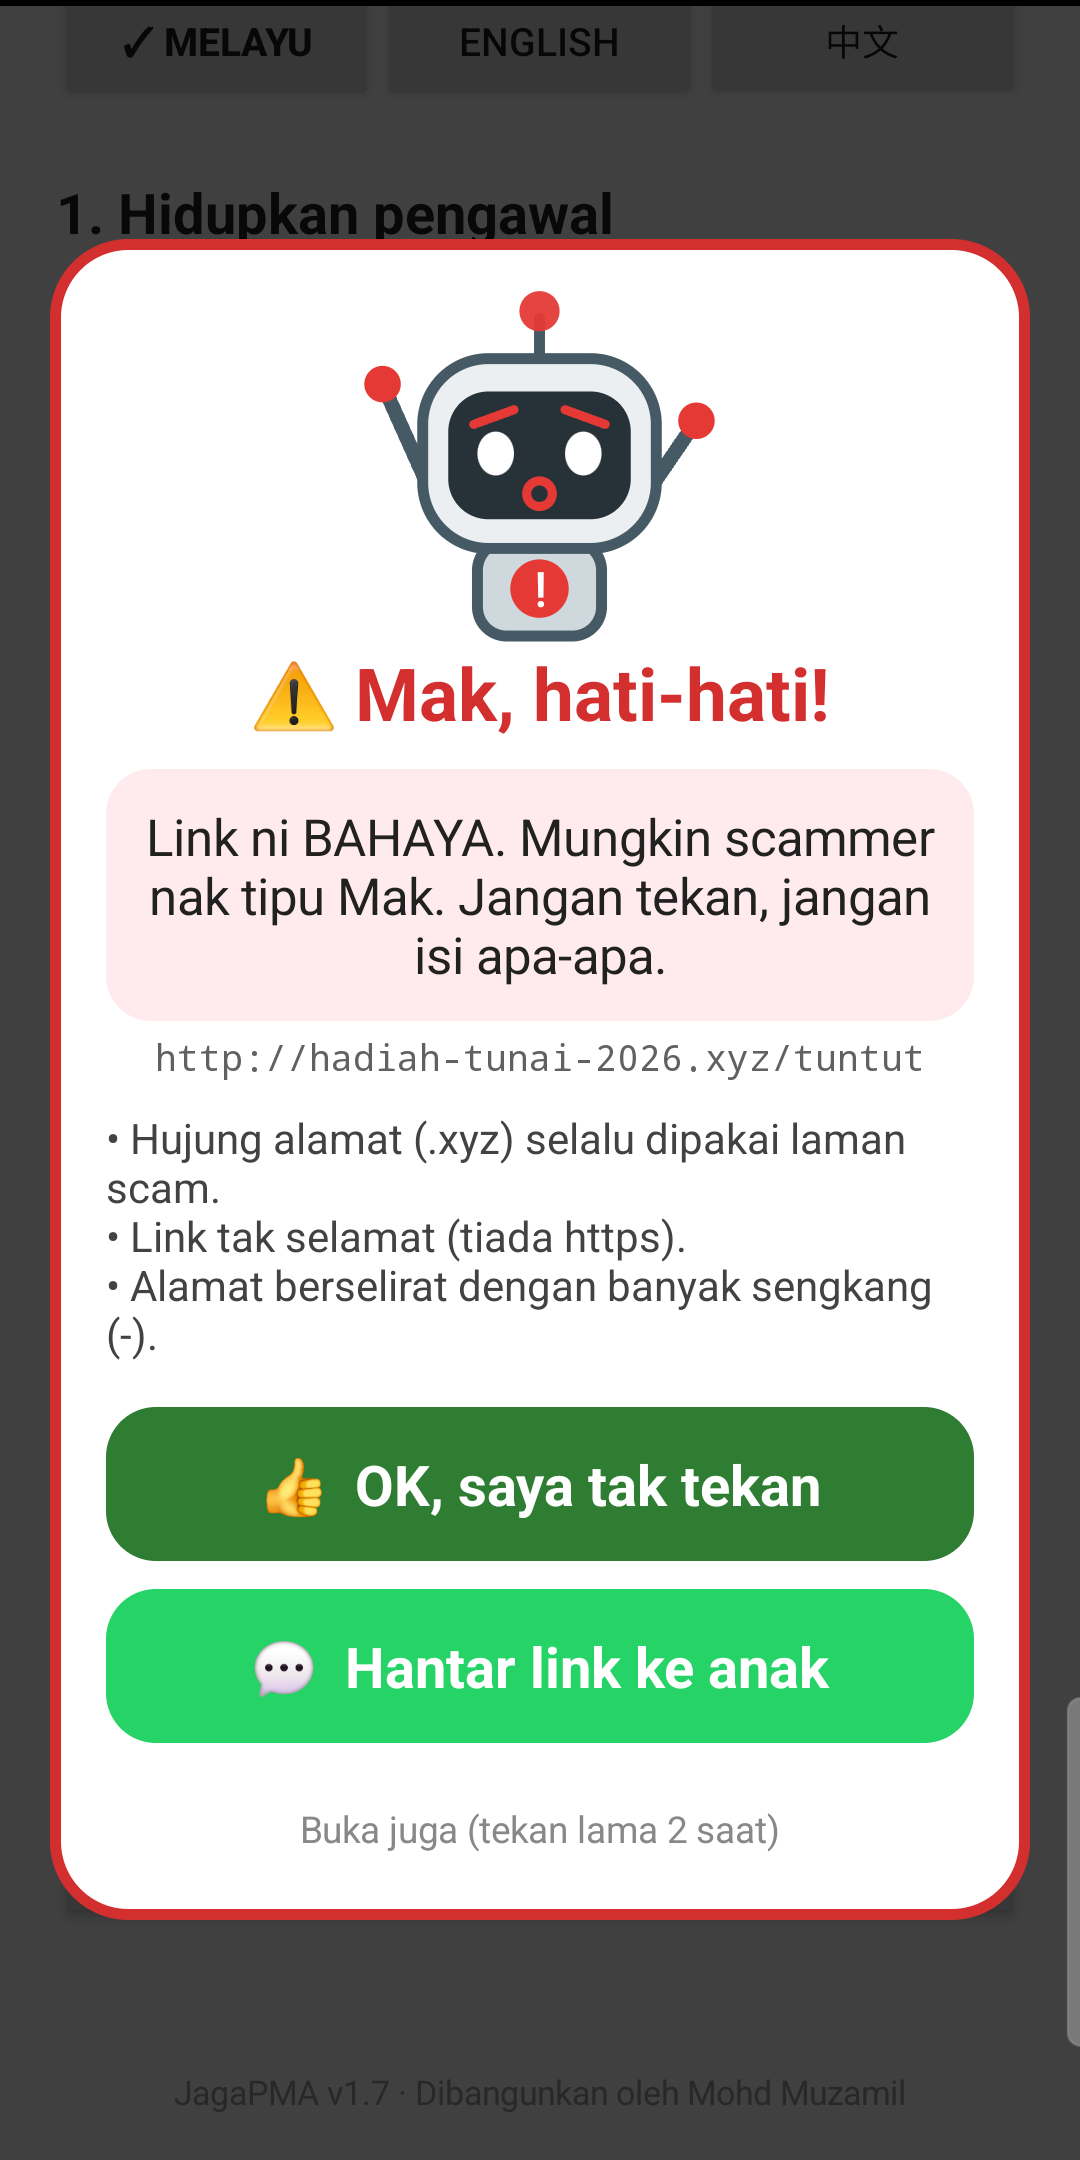
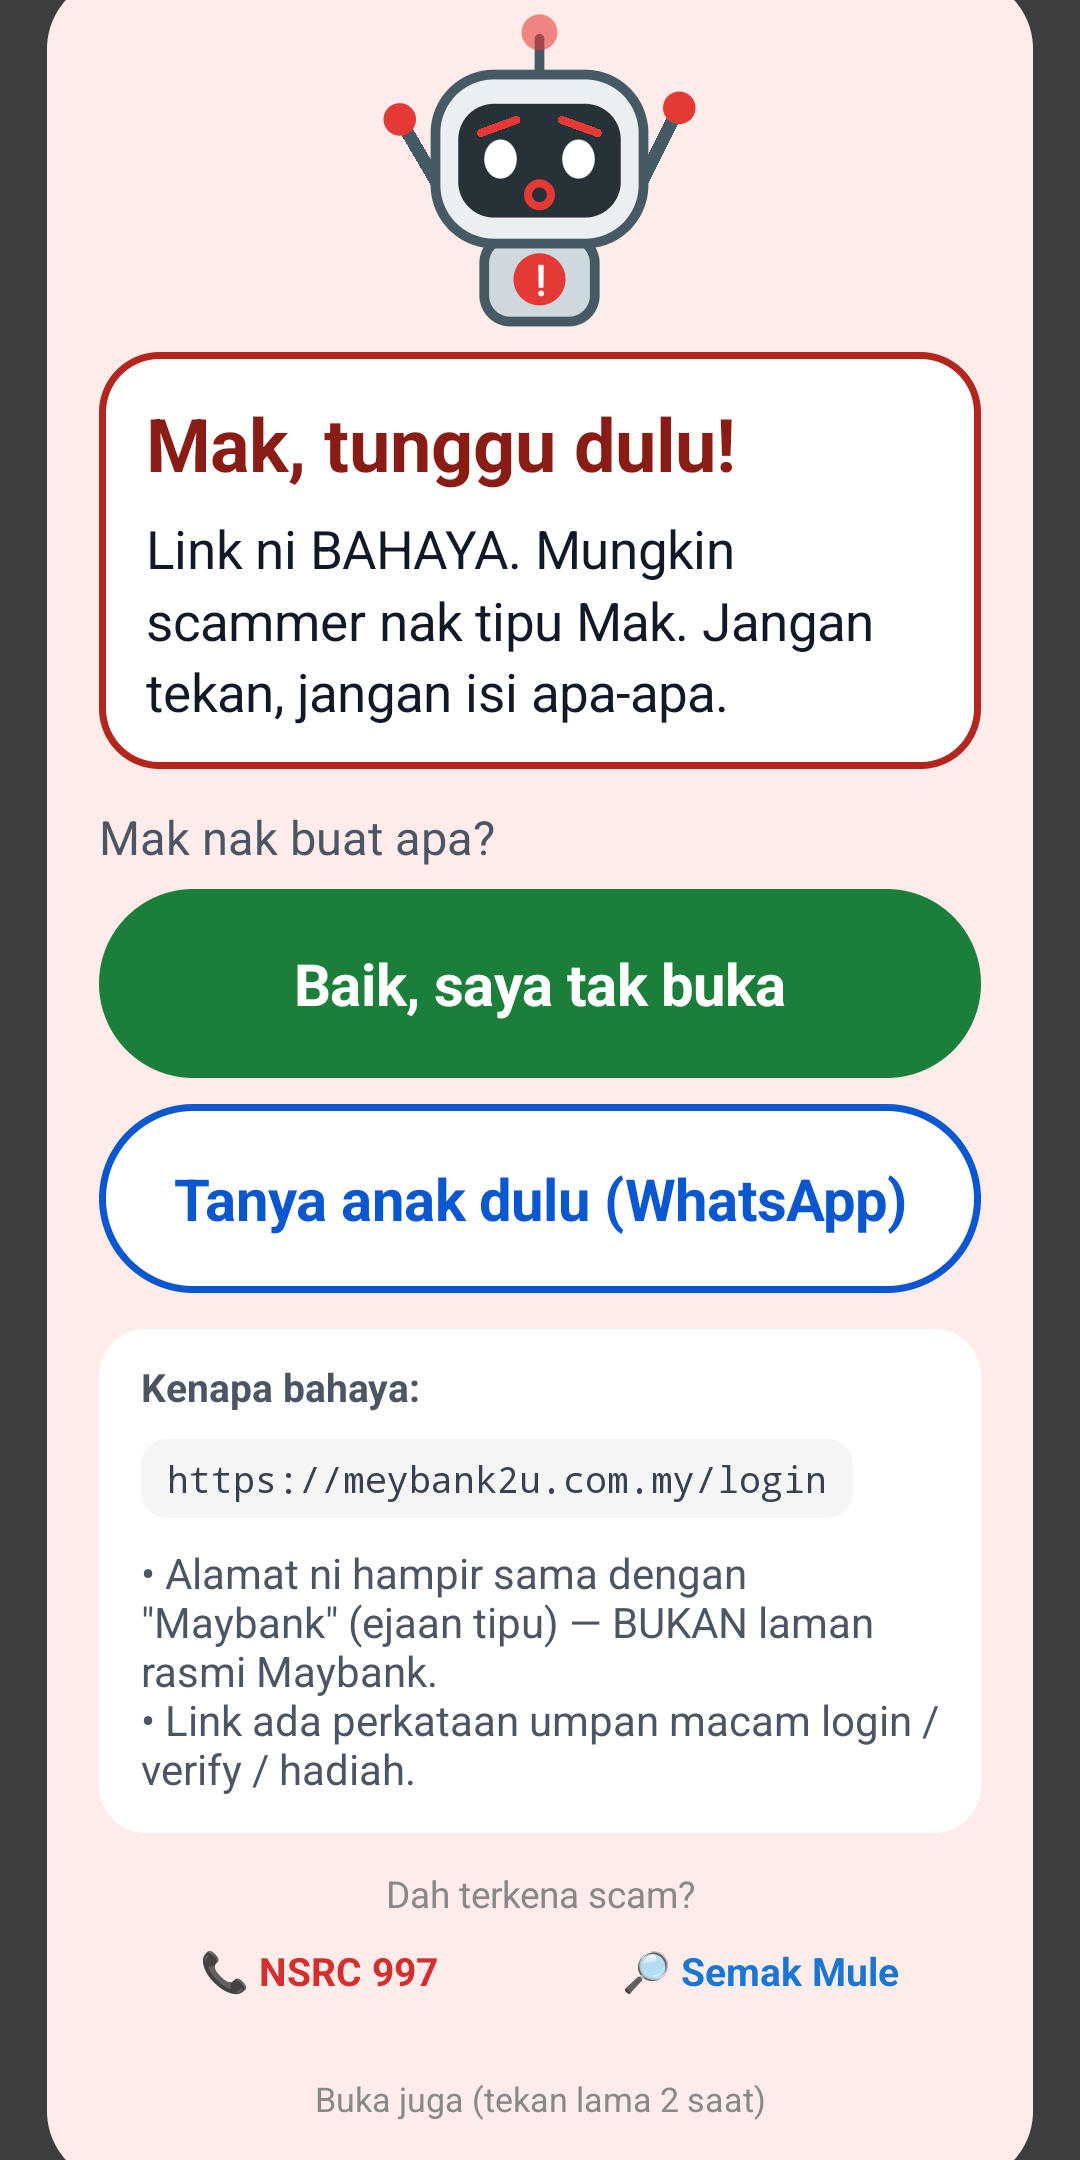
Pre-release fixes from simulation: official domains, setup flow, big-font layout, new screenshots
- Whitelist maybank.my, cimbbank.com.my, pbebank.com.my, poslaju.com.my, lazada.sg
- Browser step explains tapping JagaPMA before "Set as default"
- Battery step hidden in the Play flavor
- "Go to home screen" button when setup is done; back button hidden until then
- Warning card: buttons first, reasons/URL below; smaller bot at large font
- Home status strip stacks at large font
- New Concept B store screenshots

diff --git a/app/src/main/java/com/jagalink/MainActivity.kt b/app/src/main/java/com/jagalink/MainActivity.kt
@@ -36,6 +36,7 @@ class MainActivity : Activity() {
     private lateinit var resultText: TextView
     private var scrollView: ScrollView? = null
     private var nameField: EditText? = null
+    private var backButton: View? = null
     private val grey = Color.rgb(97, 97, 97)
 
     private lateinit var settingsView: View
@@ -201,7 +202,8 @@ class MainActivity : Activity() {
         }
 
         // Kembali ke skrin Mak
-        if (!Prefs.inSecondProfile()) col.addView(button(tr("←  Kembali ke skrin utama", "←  Back to home screen", "←  返回主屏幕")) { showHome() })
+        backButton = button(tr("←  Kembali ke skrin utama", "←  Back to home screen", "←  返回主屏幕")) { showHome() }
+        col.addView(backButton)
 
         col.addView(BotView(this, Level.SAFE), LinearLayout.LayoutParams(dp(120), dp(120)).apply {
             gravity = Gravity.CENTER_HORIZONTAL
@@ -499,13 +501,17 @@ class MainActivity : Activity() {
             tr("Pengawal link (jadikan browser utama)", "Link guard (set as default browser)", "链接守卫（设为默认浏览器）"),
             tr("Jadikan JagaPMA browser utama", "Make JagaPMA the default browser", "把 JagaPMA 设为默认浏览器"),
             tr(
-                "Ini perlindungan utama — setiap link yang ditekan disemak dulu. Link selamat tetap dibuka dalam Chrome. Pilih JagaPMA bila ditanya.",
-                "This is the main protection — every tapped link is checked first. Safe links still open in Chrome. Choose JagaPMA when asked.",
-                "这是主要保护——每个被点击的链接都会先检查。安全的链接仍会在 Chrome 中打开。被询问时请选择 JagaPMA。",
+                "Ini perlindungan utama — setiap link yang ditekan disemak dulu. Link selamat tetap dibuka dalam Chrome.\n\n" +
+                    "Bila ditanya: tekan JagaPMA dulu, kemudian tekan \"Tetapkan sebagai lalai\" (Set as default).",
+                "This is the main protection — every tapped link is checked first. Safe links still open in Chrome.\n\n" +
+                    "When asked: tap JagaPMA first, then tap \"Set as default\".",
+                "这是主要保护——每个被点击的链接都会先检查。安全的链接仍会在 Chrome 中打开。\n\n" +
+                    "被询问时：先点 JagaPMA，再点「设为默认」(Set as default)。",
             ),
             isDefaultBrowser(),
         ) { requestBrowserRole() }
-        list += Step(
+        // Versi Play: pengawal link hanya berjalan bila link ditekan (tiada servis latar), jadi langkah bateri tak perlu
+        if (!BuildConfig.PLAY) list += Step(
             tr("Jangan dimatikan di latar belakang", "Keep running in the background", "保持在后台运行"),
             tr("Jangan biar phone tutup JagaPMA", "Don't let the phone close JagaPMA", "不要让手机关闭 JagaPMA"),
             tr(
@@ -576,8 +582,11 @@ class MainActivity : Activity() {
                         "JagaPMA 正在守护${Prefs.callName(this)}。点击的链接会先被检查。",
                     ),
                     16f
-                ).apply { setPadding(0, dp(6), 0, 0) }
+                ).apply { setPadding(0, dp(6), 0, dp(12)) }
             )
+            if (!Prefs.inSecondProfile()) {
+                box.addView(BotUi.bigButton(this, tr("Pergi ke skrin utama  ➜", "Go to the home screen  ➜", "前往主屏幕  ➜"), accent) { showHome() })
+            }
         } else {
             val s = steps[next]
             box.addView(
@@ -593,6 +602,8 @@ class MainActivity : Activity() {
     private fun refreshStatus() {
         statusBox.removeAllViews()
         val steps = steps()
+        // Butang kembali hanya bila setup dah siap — jangan biar pengguna lari dari setup
+        backButton?.visibility = if (steps.all { it.done } && !Prefs.inSecondProfile()) View.VISIBLE else View.GONE
         statusBox.addView(guideCard(steps), LinearLayout.LayoutParams(MATCH_PARENT, WRAP_CONTENT).apply { bottomMargin = dp(12) })
         for (s in steps) if (s.row.isNotEmpty()) row(s.row, s.done) { s.action() }
 

diff --git a/app/src/main/java/com/jagalink/BotOverlay.kt b/app/src/main/java/com/jagalink/BotOverlay.kt
@@ -145,7 +145,9 @@ object BotUi {
         }
         scroll.addView(card, FrameLayout.LayoutParams(MATCH_PARENT, WRAP_CONTENT))
 
-        card.addView(BotView(ctx, v.level), LinearLayout.LayoutParams(ctx.dp(124), ctx.dp(124)))
+        // Teks besar (tetapan saiz fon phone) → bot lebih kecil supaya butang muat dalam skrin
+        val botDp = if (ctx.resources.configuration.fontScale > 1.3f) 84 else 124
+        card.addView(BotView(ctx, v.level), LinearLayout.LayoutParams(ctx.dp(botDp), ctx.dp(botDp)))
 
         // Belon kata bot: tajuk + mesej + link + sebab
         val bubble = LinearLayout(ctx).apply {
@@ -182,7 +184,17 @@ object BotUi {
             setLineSpacing(0f, 1.15f)
         }, spaced(ctx, 8))
 
-        bubble.addView(text(ctx, v.url, 14f, Color.rgb(55, 65, 81)).apply {
+        // Butiran (link + sebab) diletak SELEPAS butang — supaya butang sentiasa nampak walaupun teks besar
+        val details = LinearLayout(ctx).apply {
+            orientation = LinearLayout.VERTICAL
+            setPadding(ctx.dp(16), ctx.dp(12), ctx.dp(16), ctx.dp(14))
+            background = GradientDrawable().apply { setColor(Color.WHITE); cornerRadius = ctx.dp(18).toFloat() }
+        }
+        details.addView(text(ctx, if (danger) ctx.tr("Kenapa bahaya:", "Why it's dangerous:", "为什么危险：") else ctx.tr("Kenapa mencurigakan:", "Why it looks suspicious:", "为什么可疑："), 15f, Color.rgb(75, 85, 99), bold = true).apply {
+            gravity = Gravity.START
+        })
+
+        details.addView(text(ctx, v.url, 14f, Color.rgb(55, 65, 81)).apply {
             typeface = Typeface.MONOSPACE
             gravity = Gravity.START
             maxLines = 2
@@ -192,7 +204,7 @@ object BotUi {
         }, LinearLayout.LayoutParams(WRAP_CONTENT, WRAP_CONTENT).apply { topMargin = ctx.dp(10) })
 
         if (v.reasons.isNotEmpty()) {
-            bubble.addView(
+            details.addView(
                 text(ctx, v.reasons.take(2).joinToString("\n") { "• $it" }, 16f, Color.rgb(75, 85, 99))
                     .apply { gravity = Gravity.START },
                 spaced(ctx, 10)
@@ -201,7 +213,7 @@ object BotUi {
 
         if (app != null) {
             val found = ctx.tr("Dijumpai dalam: $app", "Found in: $app", "发现于：$app")
-            card.addView(text(ctx, found, 14f, Color.rgb(75, 85, 99)), spaced(ctx, 8))
+            details.addView(text(ctx, found, 14f, Color.rgb(75, 85, 99)).apply { gravity = Gravity.START }, spaced(ctx, 8))
         }
 
         card.addView(text(ctx, ctx.tr("$name nak buat apa?", "What would you like to do?", "${name}想做什么？"), 18f, Color.rgb(75, 85, 99)).apply {
@@ -221,6 +233,8 @@ object BotUi {
                 onDismiss()
             }, spaced(ctx, 10))
         }
+
+        card.addView(details, spaced(ctx, 14))
 
         // Dah terkena? Terus ke talian bantuan rasmi
         card.addView(text(ctx, ctx.tr("Dah terkena scam?", "Already scammed?", "已经被骗了？"), 14f, Color.GRAY), spaced(ctx, 14))

diff --git a/app/src/main/java/com/jagalink/LinkAnalyzer.kt b/app/src/main/java/com/jagalink/LinkAnalyzer.kt
@@ -69,12 +69,12 @@ object LinkAnalyzer {
         // ---- Bank
         Brand("Maybank", listOf("maybank", "maybank2u", "maybank2e"),
             listOf("maybank2u.com.my", "maybank.com", "maybank.com.my", "maybank2e.net", "maybank2e.com",
-                "maybank.com.sg", "maybank2u.com.sg", "maybank.co.id"), Kind.BANK),
+                "maybank.com.sg", "maybank2u.com.sg", "maybank.co.id", "maybank.my"), Kind.BANK),
         Brand("CIMB", listOf("cimb", "cimbclicks", "cimbbank"),
             listOf("cimbclicks.com.my", "cimb.com.my", "cimb.com", "cimbislamic.com",
-                "cimb.com.sg", "cimbthai.com", "cimbniaga.co.id"), Kind.BANK),
+                "cimb.com.sg", "cimbthai.com", "cimbniaga.co.id", "cimbbank.com.my"), Kind.BANK),
         Brand("Public Bank", listOf("publicbank", "pbebank", "publicislamic"),
-            listOf("pbebank.com", "publicbank.com.my", "publicislamicbank.com.my"), Kind.BANK),
+            listOf("pbebank.com", "pbebank.com.my", "publicbank.com.my", "publicislamicbank.com.my"), Kind.BANK),
         Brand("RHB", listOf("rhb", "rhbbank", "rhbnow", "rhbgroup"), listOf("rhbgroup.com", "rhb.com.my", "rhbgroup.com.sg"), Kind.BANK),
         Brand("Hong Leong Bank", listOf("hongleong", "hlbank", "hlbconnect", "hongleongconnect"),
             listOf("hlb.com.my", "hongleongconnect.my"), Kind.BANK),
@@ -116,12 +116,12 @@ object LinkAnalyzer {
         Brand("PERKESO", listOf("perkeso"), listOf("perkeso.gov.my"), Kind.OTHER),
         Brand("MyEG", listOf("myeg"), listOf("myeg.com.my"), Kind.OTHER),
         // ---- Kurier, kedai online, utiliti
-        Brand("Pos Malaysia", listOf("poslaju", "posmalaysia"), listOf("pos.com.my"), Kind.OTHER),
+        Brand("Pos Malaysia", listOf("poslaju", "posmalaysia"), listOf("pos.com.my", "poslaju.com.my"), Kind.OTHER),
         Brand("J&T", listOf("jnt", "jtexpress"), listOf("jtexpress.my"), Kind.OTHER),
         Brand("Ninja Van", listOf("ninjavan"), listOf("ninjavan.co"), Kind.OTHER),
         Brand("DHL", listOf("dhl"), listOf("dhl.com", "dhl.com.my"), Kind.OTHER),
         Brand("Shopee", listOf("shopee"), listOf("shopee.com.my", "shopee.com", "shope.ee"), Kind.OTHER),
-        Brand("Lazada", listOf("lazada"), listOf("lazada.com.my", "lazada.com"), Kind.OTHER),
+        Brand("Lazada", listOf("lazada"), listOf("lazada.com.my", "lazada.com", "lazada.sg"), Kind.OTHER),
         Brand("TNB", listOf("tnb", "mytnb"), listOf("tnb.com.my", "mytnb.com.my"), Kind.OTHER),
         Brand("Unifi", listOf("unifi"), listOf("unifi.com.my", "tm.com.my"), Kind.SOCIAL),
         Brand("Setel", listOf("setel"), listOf("setel.com"), Kind.SOCIAL),

diff --git a/app/src/main/java/com/jagalink/Home.kt b/app/src/main/java/com/jagalink/Home.kt
@@ -106,19 +106,27 @@ object HomeScreen {
         // Ruang kosong — jalur status sentiasa di bawah
         col.addView(View(ctx), LinearLayout.LayoutParams(MATCH_PARENT, 0, 1f).apply { topMargin = ctx.dp(20) })
 
+        // Teks besar → "Tetapan anak" turun ke baris sendiri (elak "Perlind-ungan" terpotong)
+        val bigText = ctx.resources.configuration.fontScale > 1.3f
         val status = LinearLayout(ctx).apply {
-            orientation = LinearLayout.HORIZONTAL
-            gravity = Gravity.CENTER_VERTICAL
+            orientation = if (bigText) LinearLayout.VERTICAL else LinearLayout.HORIZONTAL
+            gravity = if (bigText) Gravity.START else Gravity.CENTER_VERTICAL
             setPadding(ctx.dp(18), ctx.dp(8), ctx.dp(8), ctx.dp(8))
             background = GradientDrawable().apply { setColor(Color.WHITE); cornerRadius = ctx.dp(18).toFloat() }
         }
-        status.addView(View(ctx).apply {
+        val statusRow = LinearLayout(ctx).apply {
+            orientation = LinearLayout.HORIZONTAL
+            gravity = Gravity.CENTER_VERTICAL
+            minimumHeight = ctx.dp(48)
+        }
+        status.addView(statusRow, if (bigText) LinearLayout.LayoutParams(MATCH_PARENT, WRAP_CONTENT) else LinearLayout.LayoutParams(0, WRAP_CONTENT, 1f))
+        statusRow.addView(View(ctx).apply {
             background = GradientDrawable().apply {
                 shape = GradientDrawable.OVAL
                 setColor(if (protected) GREEN else Color.rgb(234, 88, 12))
             }
         }, LinearLayout.LayoutParams(ctx.dp(12), ctx.dp(12)))
-        status.addView(TextView(ctx).apply {
+        statusRow.addView(TextView(ctx).apply {
             text = if (protected) ctx.tr("Perlindungan aktif", "Protection on", "保护已开启")
             else ctx.tr("Belum siap", "Not set up", "尚未设置")
             textSize = 17f

diff --git a/play/STORE_LISTING.md b/play/STORE_LISTING.md
@@ -102,7 +102,7 @@ When your parent taps a link in WhatsApp, Telegram, SMS, Facebook or email, Jaga
 |---|---|---|
 | App icon | 512 × 512 PNG | `play/graphics/icon-512.png` |
 | Feature graphic | 1024 × 500 PNG/JPG | `play/graphics/feature-1024x500.png` |
-| Phone screenshots | 2–8 keping, sisi panjang ≤ 2× sisi pendek | `play/graphics/screenshot-1-setup.png`, `screenshot-2-amaran.png`, `screenshot-3-apk.png` (1080 × 2160) |
+| Phone screenshots | 2–8 keping, sisi panjang ≤ 2× sisi pendek | `play/graphics/screenshot-1-home.png`, `screenshot-2-amaran.png`, `screenshot-3-tetapan.png` (1080 × 2160) |
 
 > Jangan letak logo bank sebenar dalam grafik/screenshot — Google boleh anggap menyamar jenama.
 
